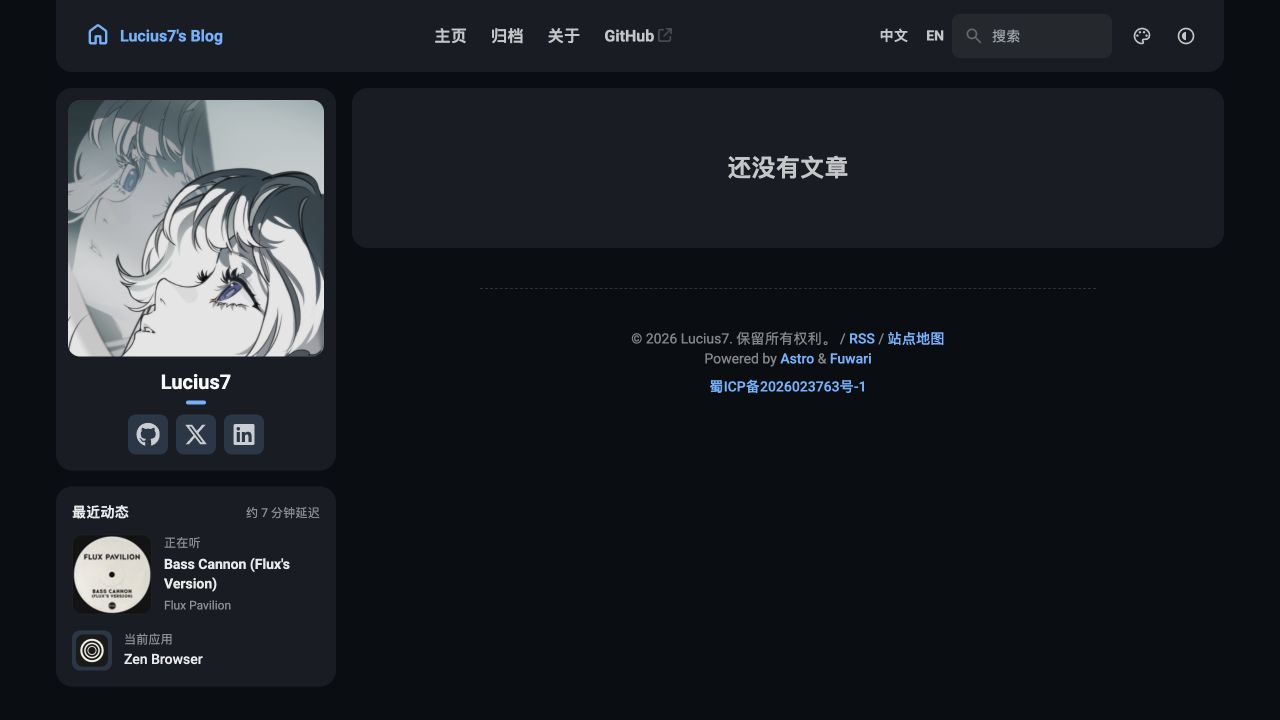
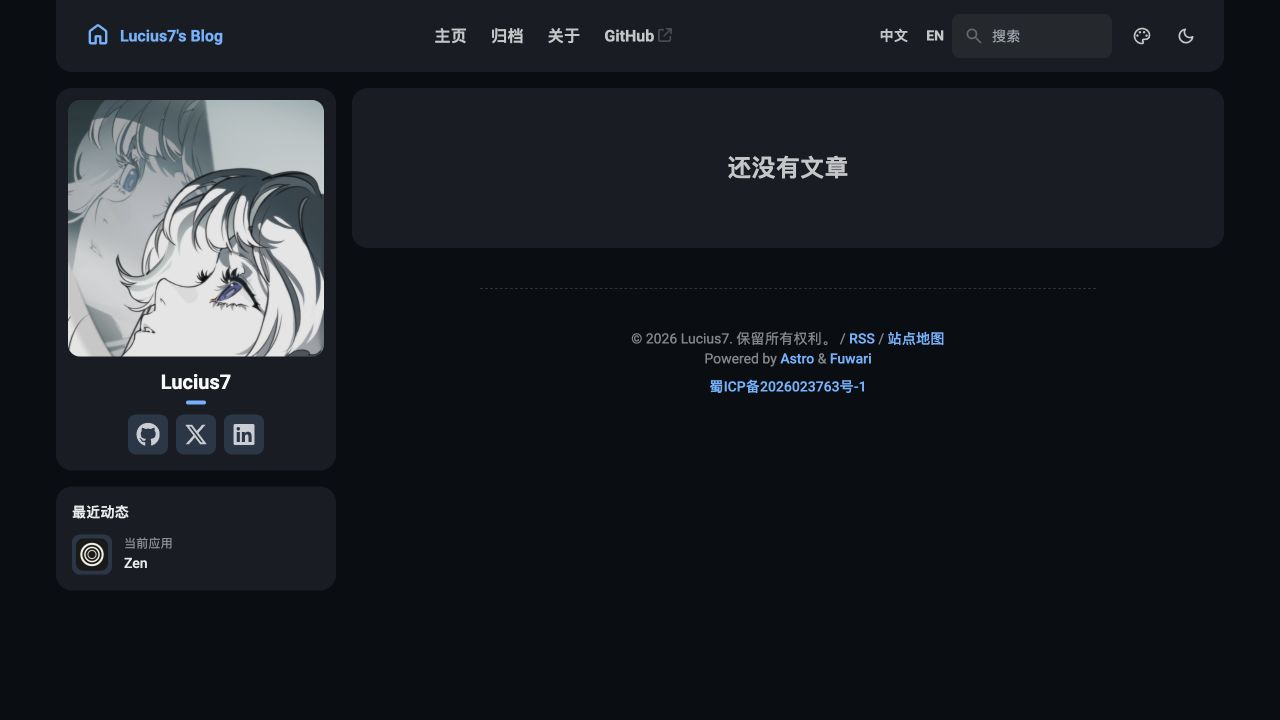
fix(sidebar): remove the activity delay label (#23)

Changed region(s): [[0.0312, 0.7333, 0.2188, 0.9472], [0.1875, 0.7028, 0.25, 0.7333], [0.9062, 0.0306, 0.9375, 0.0611]]

diff --git a/src/components/widget/MacFlare.svelte b/src/components/widget/MacFlare.svelte
@@ -43,15 +43,6 @@ $: text =
 $: music = state.status === "online" ? state.music : null;
 $: app = state.status === "online" ? state.app : null;
 $: statusText = state.status === "online" ? text.empty : text[state.status];
-$: delay = formatDelay(state.delaySeconds, locale);
-
-function formatDelay(seconds: number, language: Locale): string {
-	if (!Number.isFinite(seconds) || seconds <= 0) return "";
-	const minutes = seconds >= 60;
-	const amount = Math.max(1, Math.round(minutes ? seconds / 60 : seconds));
-	if (language === "en") return `~${amount} ${minutes ? "min" : "sec"} delay`;
-	return `约 ${amount} ${minutes ? "分钟" : "秒"}延迟`;
-}
 
 onMount(() =>
 	subscribeMacFlare(baseUrl, (next) => {
@@ -77,10 +68,7 @@ onMount(() =>
 </script>
 
 <section class="card-base p-4" aria-label={text.heading} data-pagefind-ignore>
-    <div class="mb-3 flex flex-wrap items-baseline justify-between gap-x-2 gap-y-1">
-        <h2 class="text-sm font-bold text-90">{text.heading}</h2>
-        {#if delay}<span class="text-xs text-50">{delay}</span>{/if}
-    </div>
+    <h2 class="mb-3 text-sm font-bold text-90">{text.heading}</h2>
 
     <div aria-live="polite" aria-atomic="true">
         {#if music}

diff --git a/docs/MACFLARE.md b/docs/MACFLARE.md
@@ -17,7 +17,7 @@ Set `enable: false` to remove it. The browser reads the public API after hydrati
 
 - One `GET /api/now` supplies music and the foreground app from the same snapshot. It is polled every 120 seconds while the tab is visible, with a 12-second request timeout. Returning to the tab requests fresh data immediately.
 - A local expiry check clears displayed activity at `expires_at`, including during a failed or paused refresh. Offline responses also clear it; they can represent an expired device snapshot, initial buffering or an observation gap, so the UI says “No recent activity.” Network, HTTP and invalid-data failures show “Activity unavailable.”
-- Buffered MacFlare snapshots are delayed, currently by 420 seconds. The widget labels the delay from `playback.delay_seconds`; it does not describe the delayed snapshot as a real-time device connection.
+- Buffered MacFlare snapshots are delayed upstream. The card shows the activity without a delay label.
 - `GET /api/icons` is loaded once per component mount and may use its one-hour HTTP cache. It does not read KV. Names and aliases are matched after Unicode and whitespace normalization. The static catalog lacks cross-origin JSON access, so it is not fetched by the blog.
 - Application images use `/app-icons/<id>.png` on the configured host. Music artwork uses the API's HTTPS Apple CDN URL without rewriting its size; optional track links open Apple Music or iTunes. Missing or failed images show a generic icon with the original title or app name.
 
@@ -39,7 +39,7 @@ References: [MacFlare integration guide](https://macflare.lucius7.dev/integratio
 
 ## Preview
 
-These screenshots use an isolated local fixture to show the playing state; they are not a record of the current public status.
+These screenshots show a local preview of the sidebar layout. The displayed app and music depend on the API snapshot at the time of viewing.
 
 ![Chinese desktop preview in dark mode](images/macflare-desktop.png)
 
